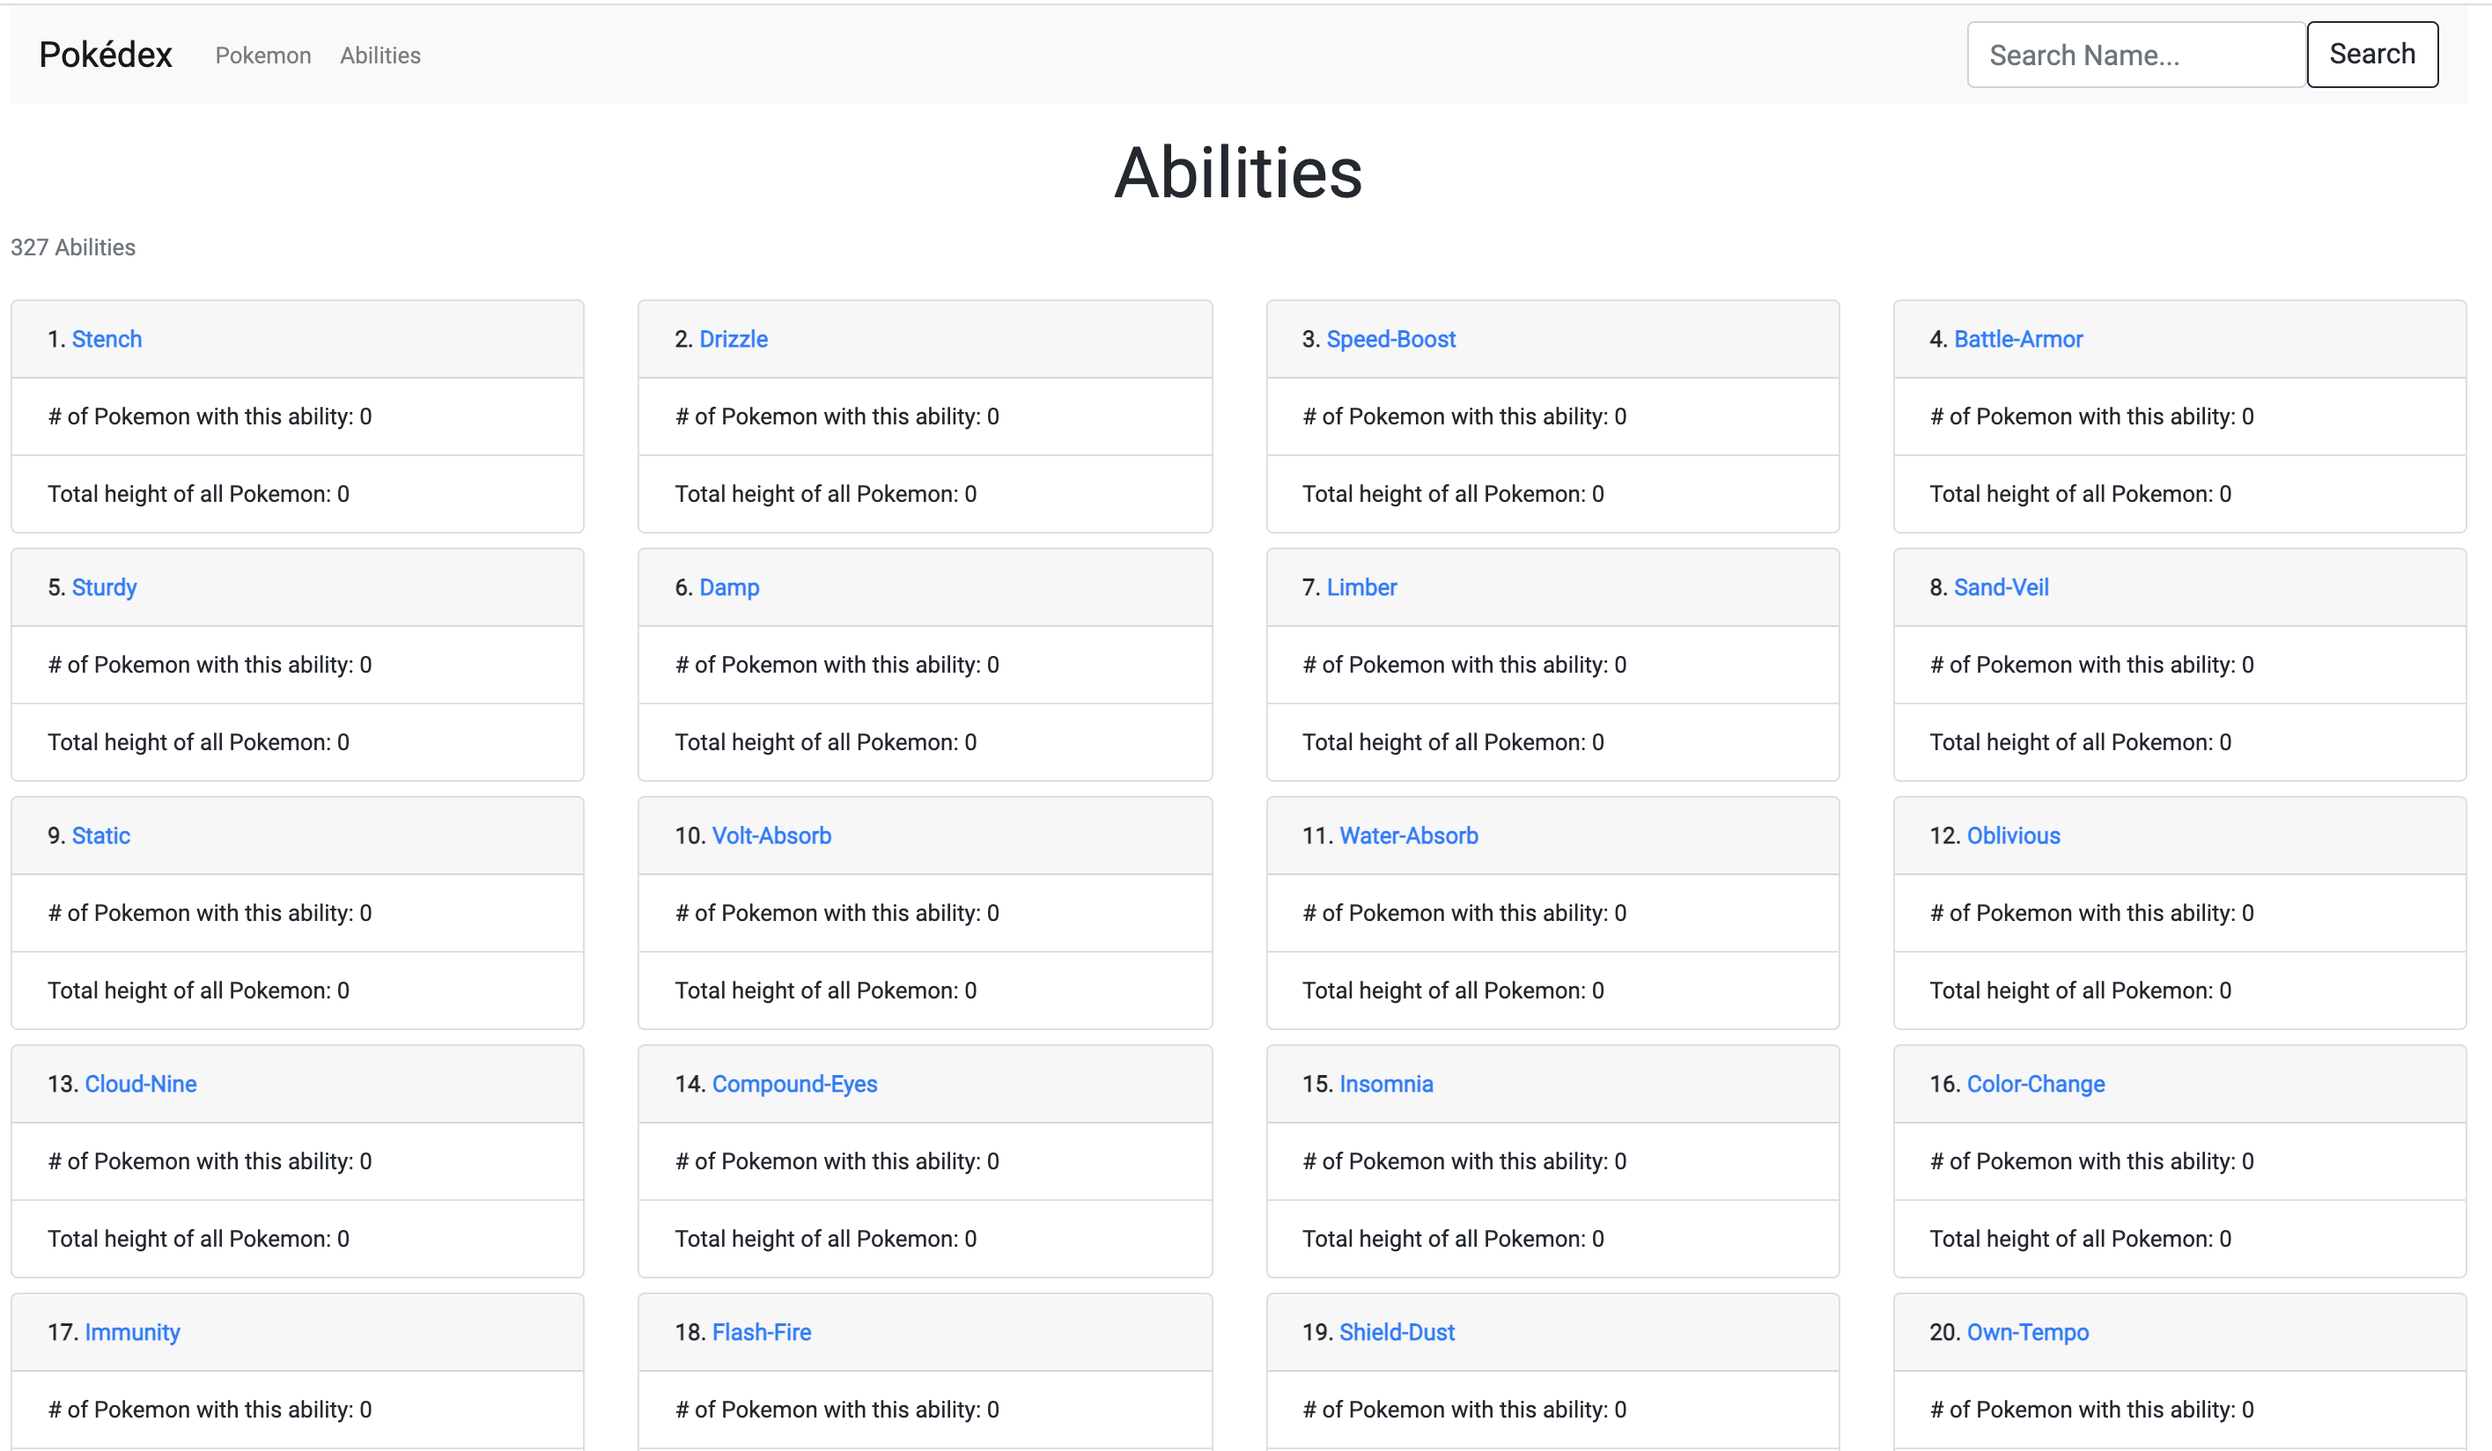
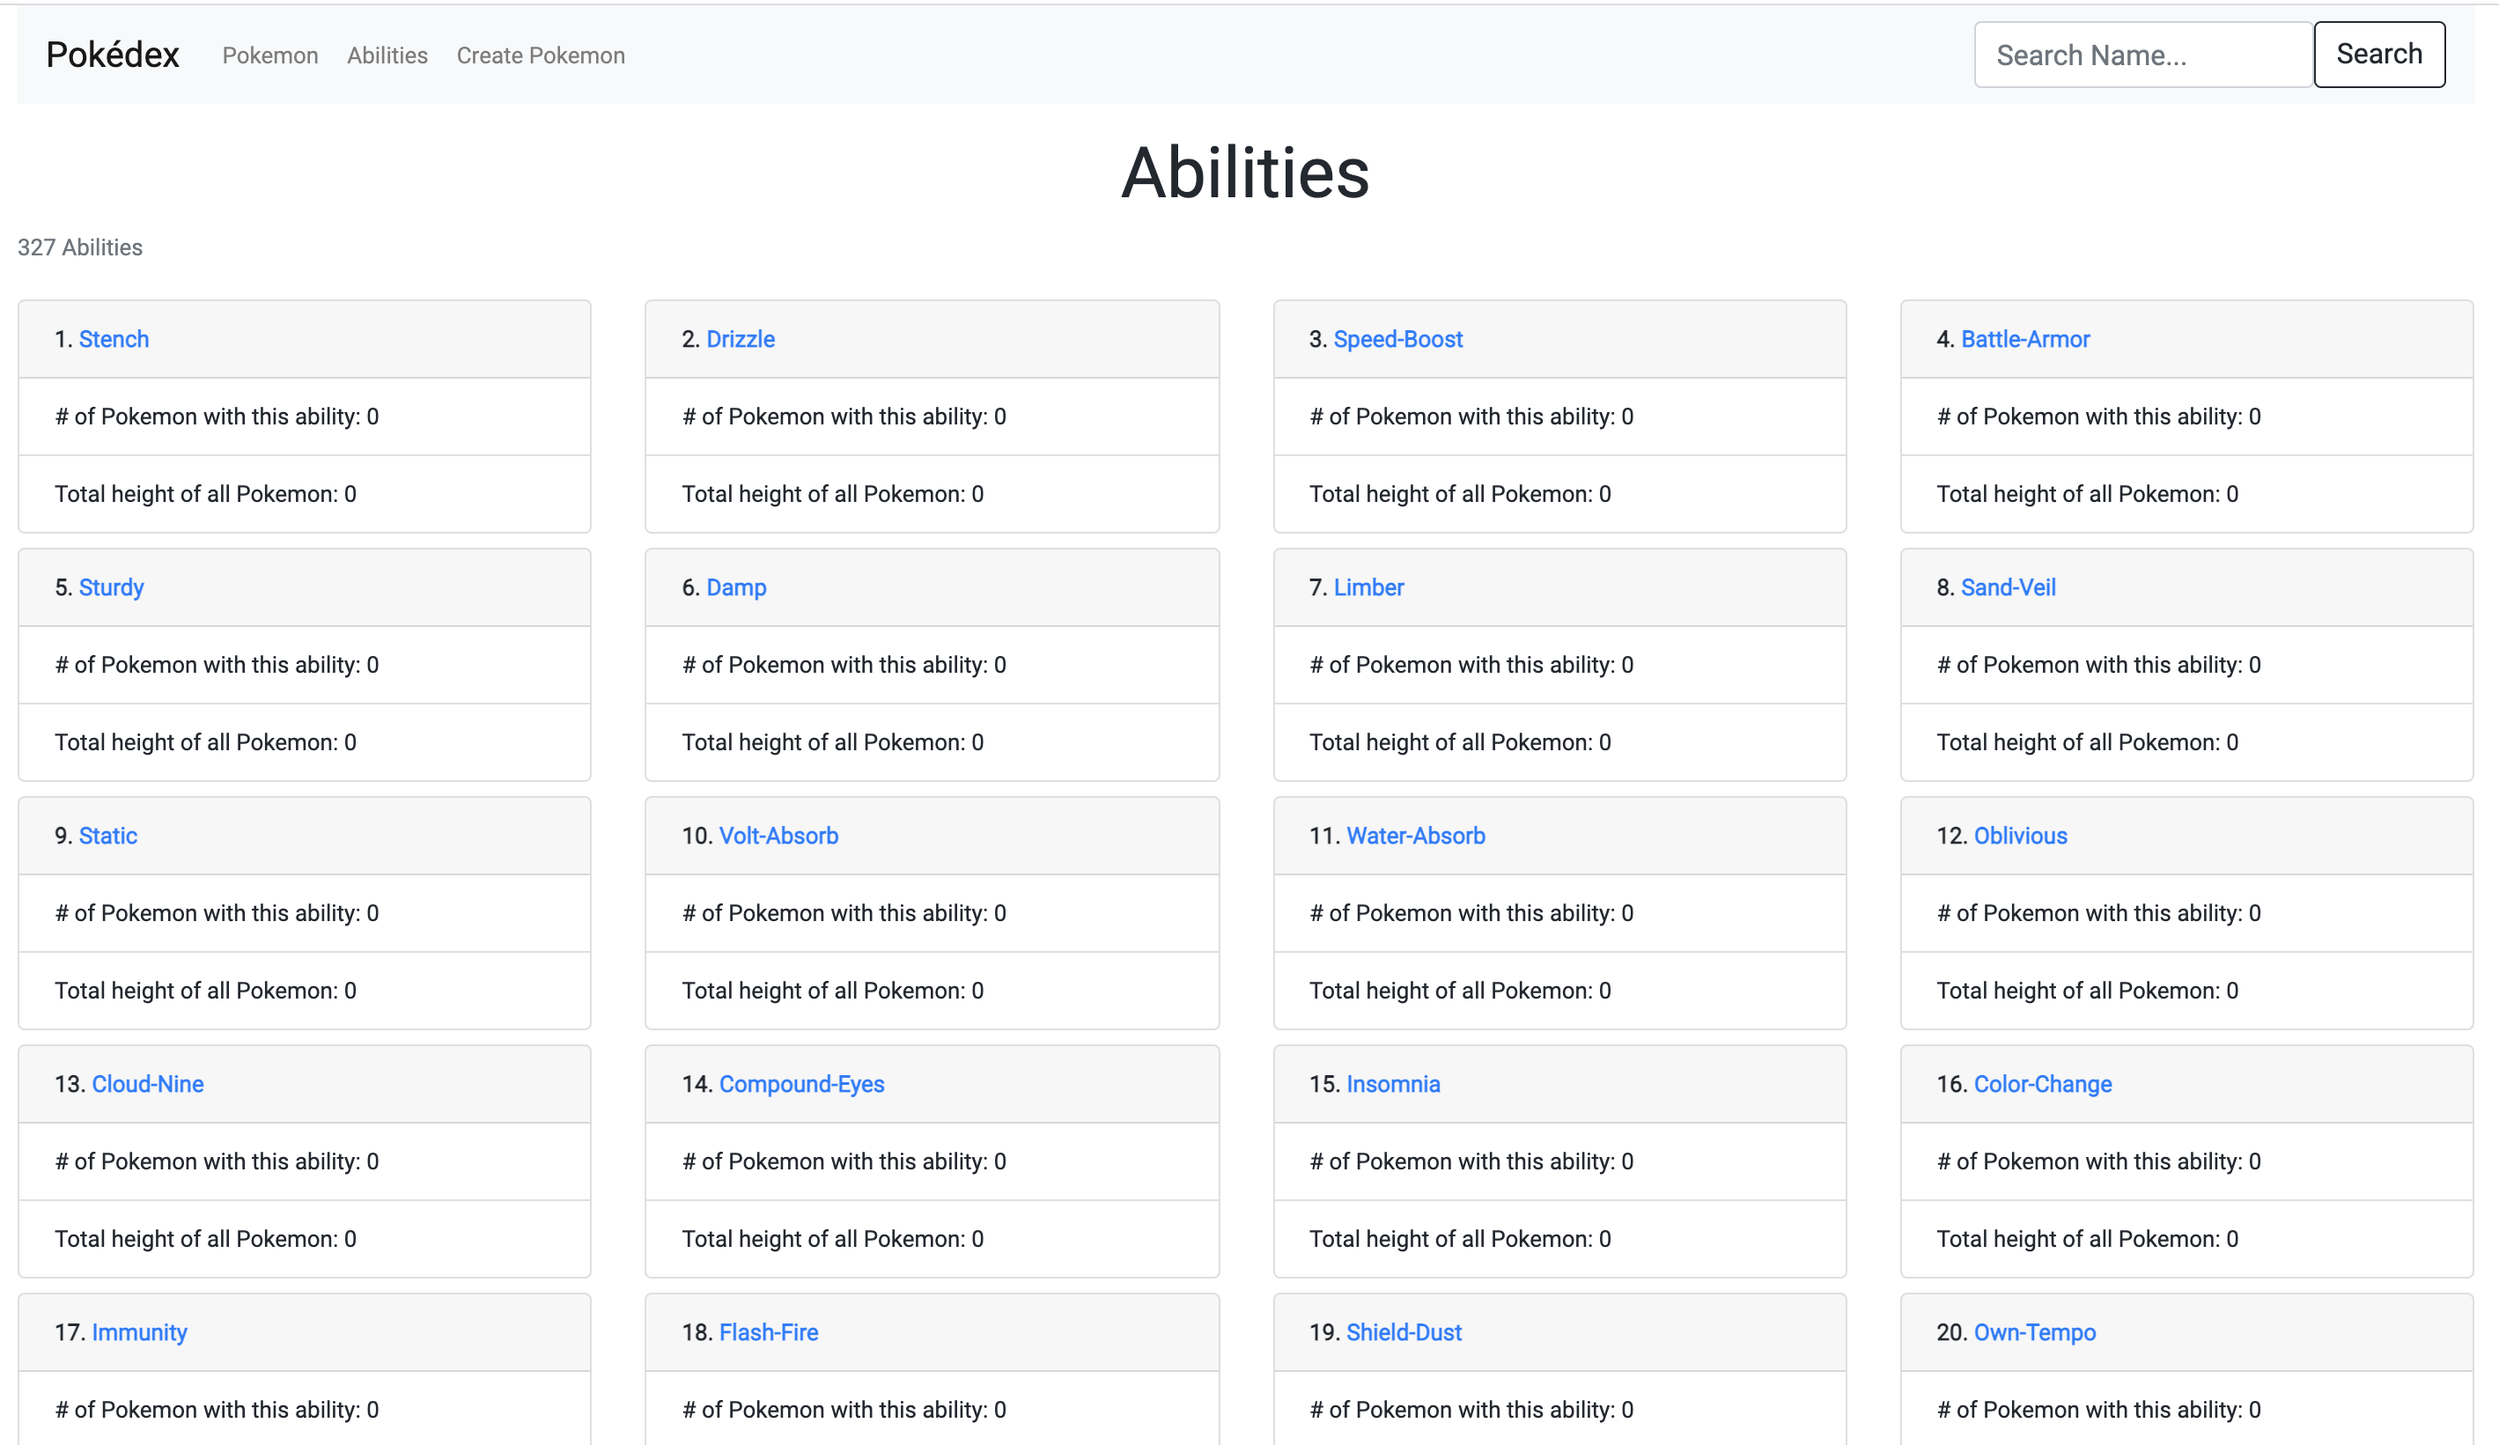
updated readme to include add pokemon page

diff --git a/README.md b/README.md
@@ -44,6 +44,14 @@ Shows all the Pokemon (if any) with this ability.
 
 Has a button in the top left that will take the user back to the Abilities page.
 
+#### Add Pokemon Page
+![Add Pokemon Page](media/add-pokemon.png)
+
+A form that allows the user to create a new Pokemon and it to the database. 
+
+Has a button in the top left that will take the user back to the Pokemon/Home page.
+
+
 ### Hopeful Future Features
 
 * Ability to count total height of all Pokemon with a certain ability
